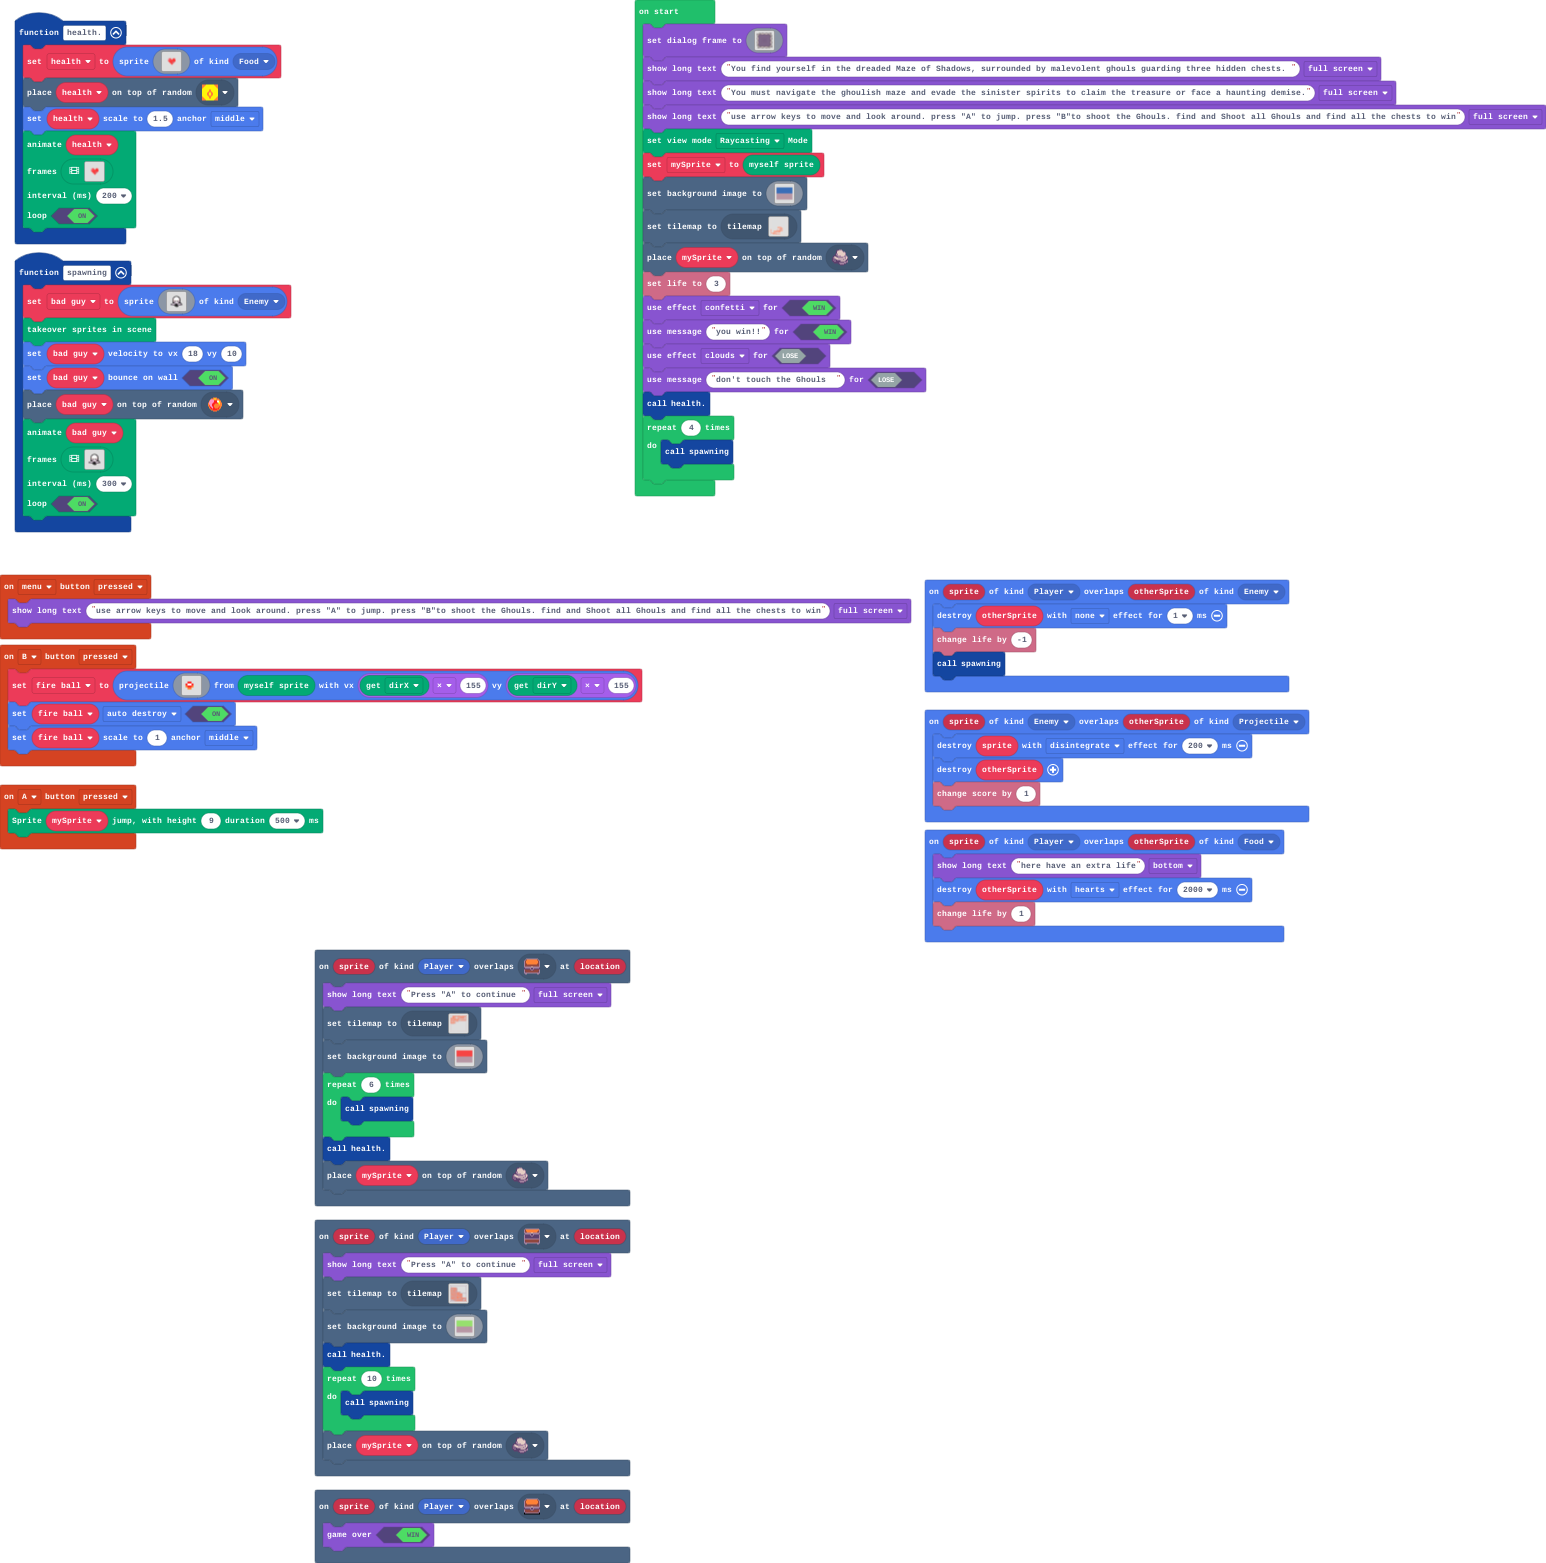
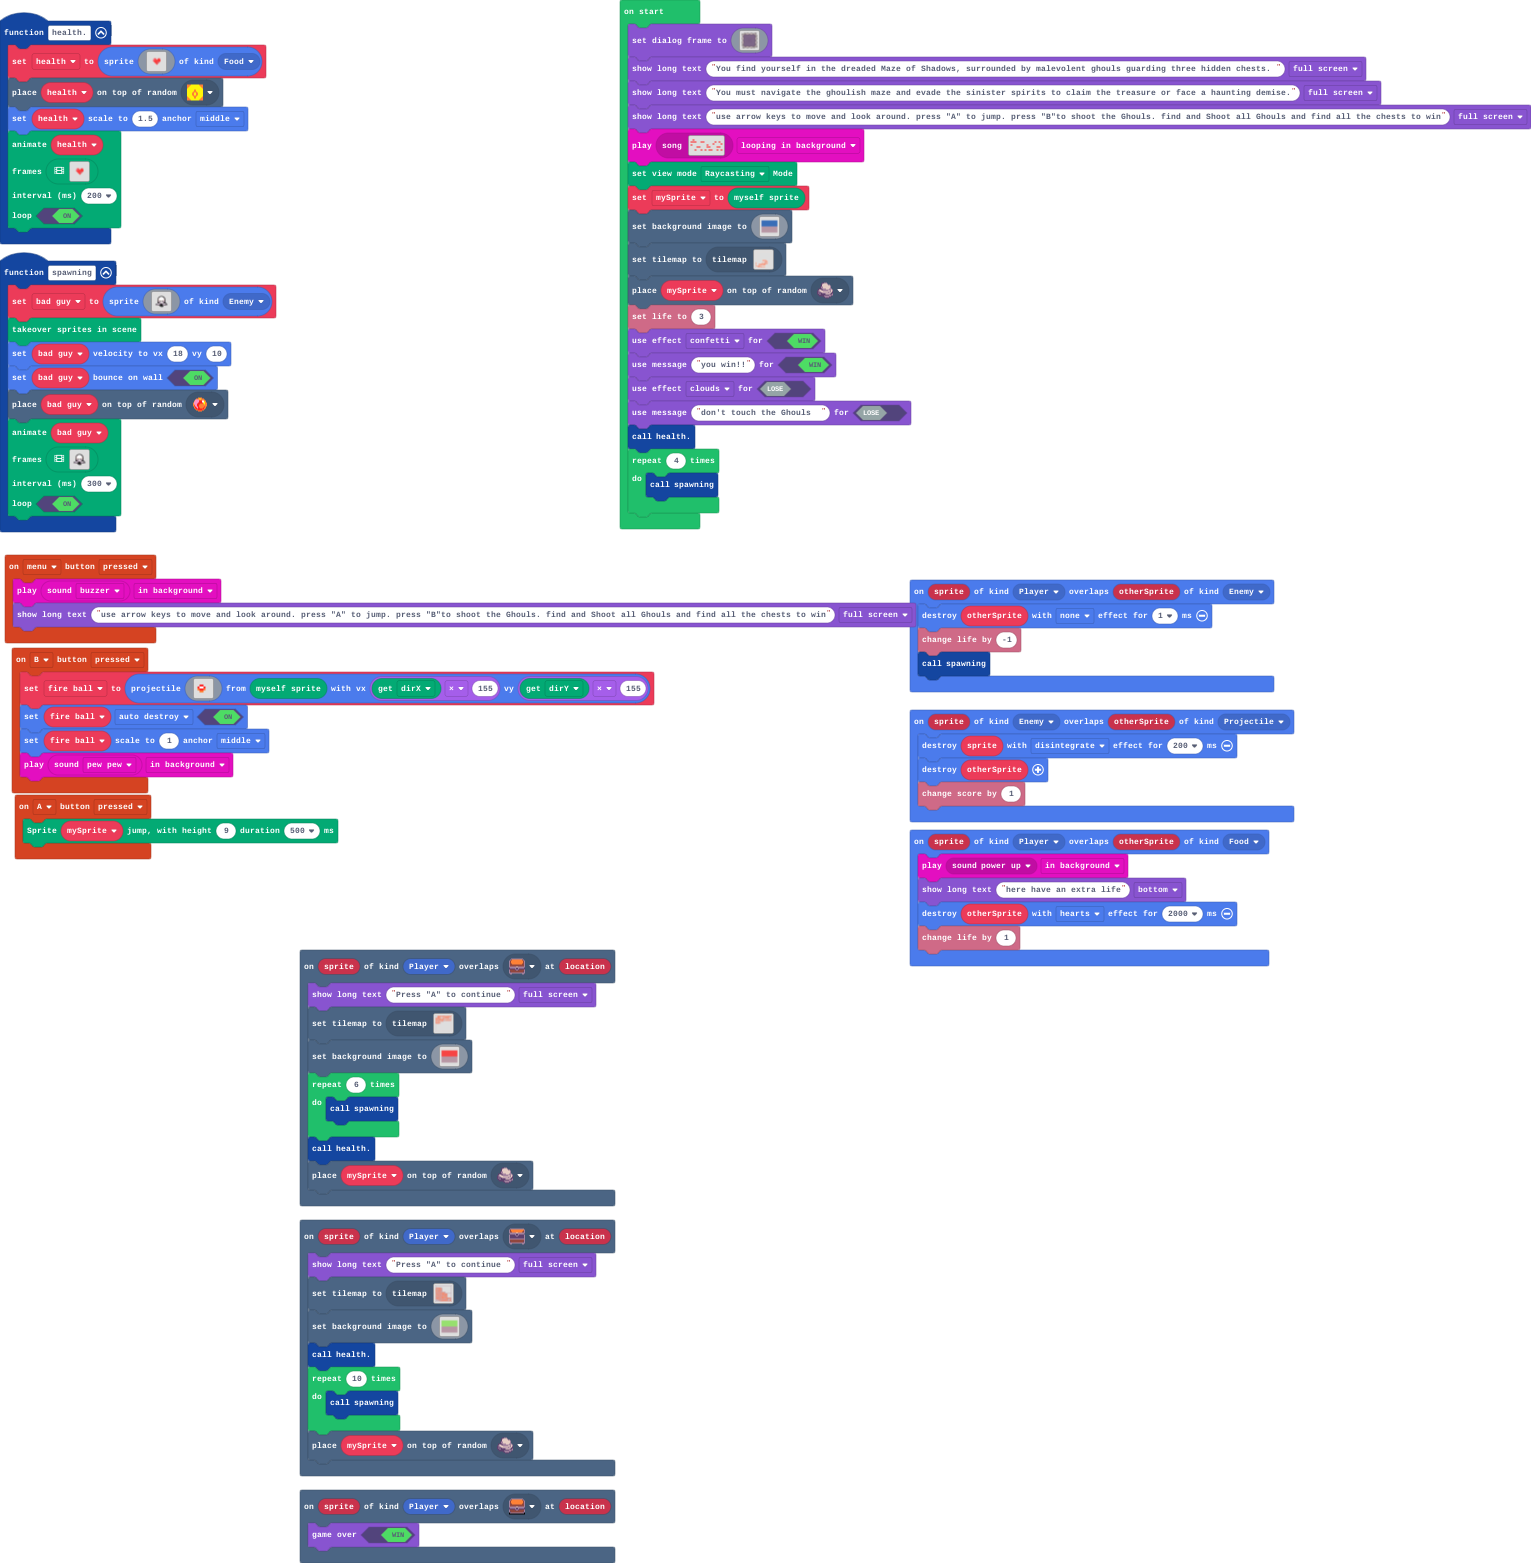
music and sound fx

Changed region(s): [[0.0, 0.0, 0.8289, 0.6449], [0.3991, 0.0, 0.8903, 0.3378], [0.1842, 0.6142, 0.4298, 1.0]]

diff --git a/tilemap.g.ts b/tilemap.g.ts
@@ -85,54 +85,6 @@ namespace myTiles {
 . . . . . . . . . . . . . . . . 
 . . . . . . . . . . . . . . . . 
 `, [myTiles.transparency16], TileScale.Sixteen);
-            case "level3":
[1 lines of base64/hex data omitted]
-222222222222222222222222222222222222222222222
-2....2....2...2....2......2............2....2
-2....2........2....2........2222222....2....2
-2....2.................222222.....2.........2
-2....2....2..22222222222..........2....2222.2
-2....2....2..2......2..2...............2..2.2
-2....2....2..2......2..22.222222222222.2..2.2
-2..222....22.22222..22.2..2......2...2.2..2.2
-2..2.......2.....2222..2..2..2.........2..2.2
-2..222222..2...........2.222222222222222222.2
-2..........2...22222..22..2...............2.2
-2..........2...2...2...2..2.2222222222222.2.2
-2..222222222...2...2...22.2.2.............2.2
-2..............2...222.2..2.222222222222222.2
-2..2.........222...2...22.2.................2
-2..2222222222222...2.222222222222222222222222
-2..22.........22.....2......................2
-2..22.2222222.222222222.....................2
-2..22.2...2.2.2.....22......................2
-2..22...2...2.2.............................2
-2..2222222222.2.............................2
-2.............2.............................2
-2..........2222.............................2
-222222222222................................2
-2...........................................2
-2...........................................2
-2...........................................2
-2...........................................2
-2...........................................2
-2...........................................2
-2...........................................2
-2...........................................2
-2...........................................2
-2...........................................2
-2...........................................2
-2...........................................2
-2...........................................2
-2...........................................2
-2...........................................2
-2...........................................2
-2...........................................2
-2...........................................2
-2...........................................2
-2...........................................2
-222222222222222222222222222222222222222222222
-`, [myTiles.transparency16,sprites.castle.rock0,sprites.dungeon.floorLight5,sprites.dungeon.chestOpen,sprites.dungeon.collectibleRedCrystal,myTiles.tile1], TileScale.Sixteen);
             case "level8":
             case "level8":return tiles.createTilemap(hex`1000100000000000000000000000000000000000000000000000000000000000000000000000000000000000000000000000000000000000000000000000000000000000000000000000000000000000000000000000000000000000000000000000000000000000000000000000000000000000000000000000000000000000000000000000000000000000000000000000000000000000000000000000000000000000000000000000000000000000000000000000000000000000000000000000000000000000000000000000000000000000000000000000000000000000000000000000000000000000000000000000000000000000000000000000000000000000`, img`
 . . . . . . . . . . . . . . . . 
@@ -247,6 +199,73 @@ namespace myTiles {
 . . . . . . . . . . . . . . . . 
 . . . . . . . . . . . . . . . . 
 `, [myTiles.transparency16], TileScale.Sixteen);
+            case "level14":
+            case "level14":return tiles.createTilemap(hex`1000100000000000000000000000000000000000000000000000000001010000000000000000000000000000010101000000000000000000000000010000010000000000000000000001010000000001000000000000000001000000000000000100000000000000000000000000000001000000010101010101010101010101010100000000000000000000000000000000000000000000000000000000000000000000000000000100010000000000000000000000000001000100000000000000000000000000010001000000000000000000000001000000000001000000000000000000010101010101010000000000000000000000000000000000000000000000`, img`
+. . . . . . . . . . . . . . . . 
+. . . . . . . . . . . . . . . . 
+. . . . . . . . . . . . . . . . 
+. . . . . . . . . . . . . . . . 
+. . . . . . . . . . . . . . . . 
+. . . . . . . . . . . . . . . . 
+. . . . . . . . . . . . . . . . 
+. . . . . . . . . . . . . . . . 
+. . . . . . . . . . . . . . . . 
+. . . . . . . . . . . . . . . . 
+. . . . . . . . . . . . . . . . 
+. . . . . . . . . . . . . . . . 
+. . . . . . . . . . . . . . . . 
+. . . . . . . . . . . . . . . . 
+. . . . . . . . . . . . . . . . 
+. . . . . . . . . . . . . . . . 
+`, [myTiles.transparency16,sprites.castle.tileGrass2], TileScale.Sixteen);
+            case "level3":
[1 lines of base64/hex data omitted]
+222222222222222222222222222222222222222222222
+2....2....2...2....2......2............2....2
+2....2........2....2........2222222....2....2
+2....2.................222222.....2.........2
+2....2....2..22222222222..........2....2222.2
+2....2....2..2......2..2...............2..2.2
+2....2....2..2......2..22.222222222222.2..2.2
+2..222....22.22222..22.2..2......2...2.2..2.2
+2..2.......2.....2222..2..2..2.........2..2.2
+2..222222..2...........2.222222222222222222.2
+2..........2...22222..22..2...............2.2
+2..........2...2...2...2..2.2222222222222.2.2
+2..222222222...2...2...22.2.2.............2.2
+2..............2...222.2..2.222222222222222.2
+2..2.........222...2...22.2.................2
+2..2222222222222...2.222222222222222222222222
+2..22.........22.....2......................2
+2..22.2222222.222222222.....................2
+2..22.2...2.2.2.....22......................2
+2..22...2...2.2.............................2
+2..2222222222.2.............................2
+2.............2.............................2
+2..........2222.............................2
+222222222222................................2
+2...........................................2
+2...........................................2
+2...........................................2
+2...........................................2
+2...........................................2
+2...........................................2
+2...........................................2
+2...........................................2
+2...........................................2
+2...........................................2
+2...........................................2
+2...........................................2
+2...........................................2
+2...........................................2
+2...........................................2
+2...........................................2
+2...........................................2
+2...........................................2
+2...........................................2
+2...........................................2
+222222222222222222222222222222222222222222222
+`, [myTiles.transparency16,sprites.castle.rock0,sprites.dungeon.floorLight5,sprites.dungeon.chestOpen,sprites.dungeon.collectibleRedCrystal,myTiles.tile1], TileScale.Sixteen);
             case "level5":
             case "level5":return tiles.createTilemap(hex`2800280001010101010101010101010101010101010101010101010101010101010101010101010101010101010000000000000000000000000000000000000000000000000000000000000000000000000000010100000000000000000000000000000000000000000000000000000000000000000000000000000101000000000000000000000000000000000000000000000000000000000000000000000000000001010000000000000000000000000000000000000000000000000000000000000000000000000000010101010101010101010101010101010000000000000000000000000000000000000000000000000101010404040404040404040404040101010000000000000000000000000000000000000000000001010404040404040404040404040404040100000000000000000000000000000000000000000000010104010101010101010101040401040401000000000000000000000000000000000000000000000101040101010101040404010404010404010000000000000000000000000000000000000000000001010404040404040404040104040104040100000000000000000000000000000000000000000000010104040101010101010401040401040401000000000000000000000000000000000000000000000101040401050404040404010104010404010000000000000000000000000000000000000000000001010404010404010404040104040104040100000000000000000000000000000000000000000000010104040101010101040401040401010401000000000000000000000000000000000000000000000101040401050104010101010404010104010000000000000000000000000000000000000000000001010404010404040404010104010101040101010101010101010000000000000000000000000000010104010104040104040101040401040401040404040404040100000000000000000000000000000101040101010101040401010404010404010404040104040401000000000000000000000000000001010404040404010404010104040104040104040401040101010101010101010101010101010101010104040404040104040101010401040401040404010404010404040404010000000000000000000101040404040401040404040404010404010404040104040104040404040100000000000000000001010101010404010101010101010104040104040401040401040404040401000000000000000000010101050104040404010404040401040101040404010404040404040404010000000000000000000101040401040404040404010404010401040404040101040404040104040100000000000000000001010404010401010101010101040104010404040404010404040401040401000000000000000000010104040104040404040404010401040101010101010104040404010404010000000000000000000101040101010101010104040104010404040404040401010104040104040100000000000000000001010401010404040401040401040104040404040404010504040401040401000000000000000000010104010104010404010404010401010104040404040104040404010404010000000000000000000101040104040104040104040104040001040404040401040404040104040101010101010101010101010401040401040401040401040104010404040404010101010101040404040404040404040404010104040404010404010404010401040104040404040404040404040404040404040404040404040101010101010104040101010104010401010101010101010101010101040401010101010101010101010404040404040404040404040104000404040401010101040404010404010303000001010101010101010101010101010101010101040404040404010404040404040104040103000000040404040101000000000000040404040404010101010104040104040404040401040401000000000404040401010002000101010101010101010104040404040401040404040404010404010101010101010404010100000000000000000000040404040404040404010404040404040404040404040404040404040101010101010101010101010101010101010101010101010101010101010101010101010101010101`, img`
 ........................................
@@ -343,25 +362,6 @@ namespace myTiles {
 2.............2........2......22.................2
 22222222222222222222222222222222222222222222222222
 `, [myTiles.transparency16,sprites.builtin.brick,sprites.castle.rock0,sprites.dungeon.chestClosed,sprites.dungeon.collectibleRedCrystal,myTiles.tile1], TileScale.Sixteen);
-            case "level14":
-            case "level14":return tiles.createTilemap(hex`1000100000000000000000000000000000000000000000000000000001010000000000000000000000000000010101000000000000000000000000010000010000000000000000000001010000000001000000000000000001000000000000000100000000000000000000000000000001000000010101010101010101010101010100000000000000000000000000000000000000000000000000000000000000000000000000000100010000000000000000000000000001000100000000000000000000000000010001000000000000000000000001000000000001000000000000000000010101010101010000000000000000000000000000000000000000000000`, img`
-. . . . . . . . . . . . . . . . 
-. . . . . . . . . . . . . . . . 
-. . . . . . . . . . . . . . . . 
-. . . . . . . . . . . . . . . . 
-. . . . . . . . . . . . . . . . 
-. . . . . . . . . . . . . . . . 
-. . . . . . . . . . . . . . . . 
-. . . . . . . . . . . . . . . . 
-. . . . . . . . . . . . . . . . 
-. . . . . . . . . . . . . . . . 
-. . . . . . . . . . . . . . . . 
-. . . . . . . . . . . . . . . . 
-. . . . . . . . . . . . . . . . 
-. . . . . . . . . . . . . . . . 
-. . . . . . . . . . . . . . . . 
-. . . . . . . . . . . . . . . . 
-`, [myTiles.transparency16,sprites.castle.tileGrass2], TileScale.Sixteen);
         }
         return null;
     })

diff --git a/main.ts b/main.ts
@@ -14,6 +14,7 @@ controller.B.onEvent(ControllerButtonEvent.Pressed, function () {
         `, Render.getRenderSpriteInstance(), Render.getAttribute(Render.attribute.dirX) * 155, Render.getAttribute(Render.attribute.dirY) * 155)
     fire_ball.setFlag(SpriteFlag.AutoDestroy, true)
     fire_ball.setScale(1, ScaleAnchor.Middle)
+    music.play(music.melodyPlayable(music.pewPew), music.PlaybackMode.InBackground)
 })
 controller.A.onEvent(ControllerButtonEvent.Pressed, function () {
     Render.jumpWithHeightAndDuration(mySprite, 9, 500)
@@ -472,9 +473,11 @@ function health () {
     )
 }
 controller.menu.onEvent(ControllerButtonEvent.Pressed, function () {
+    music.play(music.melodyPlayable(music.buzzer), music.PlaybackMode.InBackground)
     game.showLongText("use arrow keys to move and look around. press \"A\" to jump. press \"B\"to shoot the Ghouls. find and Shoot all Ghouls and find all the chests to win", DialogLayout.Full)
 })
 sprites.onOverlap(SpriteKind.Player, SpriteKind.Food, function (sprite, otherSprite) {
+    music.play(music.melodyPlayable(music.powerUp), music.PlaybackMode.InBackground)
     game.showLongText("here have an extra life", DialogLayout.Bottom)
     sprites.destroy(otherSprite, effects.hearts, 2000)
     info.changeLifeBy(1)
@@ -690,6 +693,7 @@ game.setDialogFrame(img`
 game.showLongText("You find yourself in the dreaded Maze of Shadows, surrounded by malevolent ghouls guarding three hidden chests. ", DialogLayout.Full)
 game.showLongText("You must navigate the ghoulish maze and evade the sinister spirits to claim the treasure or face a haunting demise.", DialogLayout.Full)
 game.showLongText("use arrow keys to move and look around. press \"A\" to jump. press \"B\"to shoot the Ghouls. find and Shoot all Ghouls and find all the chests to win", DialogLayout.Full)
[1 lines of base64/hex data omitted]
 Render.setViewMode(ViewMode.raycastingView)
 mySprite = Render.getRenderSpriteVariable()
 scene.setBackgroundImage(img`
